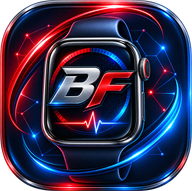
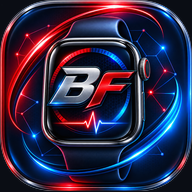
Aggiungi il manifest, e raddrizza le icone della schermata Home
Le icone erano 192×191 e 512×511. Un pixel di meno su un lato basta perché iOS
scarti l'icona e metta al suo posto uno screenshot della pagina: sulla schermata
Home sarebbe comparso un rettangolo di interfaccia sfocata invece del logo.
Ora sono quadrate, con la riga mancante riempita col fondo dell'app.

Il manifest fa partire l'app a schermo intero invece che dentro Safari con la
barra degli indirizzi addosso. La barra di stato è `black` e non
`black-translucent`, che farebbe scorrere il contenuto sotto il notch e
coprirebbe mezza testata.

Il 512 esiste in webp da 66 KB e in png da 417 KB: il webp sta per primo nella
lista e il png resta come ripiego, così nessuno dei due formati è un requisito.

diff --git a/src/app.html b/src/app.html
@@ -5,6 +5,22 @@
 		<meta name="viewport" content="width=device-width, initial-scale=1" />
 		<meta name="text-scale" content="scale" />
 		<meta name="theme-color" content="#0a0d14" />
+
+		<!--
+			Aggiunta alla schermata Home.
+
+			Il manifest da solo basta ad Android e a Safari recente; `apple-*` serve
+			ancora agli iPhone più indietro, che altrimenti aprono una scheda del
+			browser con la barra degli indirizzi addosso. La barra di stato è `black`
+			e non `black-translucent`: la traslucida farebbe scorrere il contenuto
+			sotto il notch, e la testata di ogni pagina finirebbe mezza coperta.
+		-->
+		<link rel="manifest" href="/manifest.webmanifest" />
+		<meta name="mobile-web-app-capable" content="yes" />
+		<meta name="apple-mobile-web-app-capable" content="yes" />
+		<meta name="apple-mobile-web-app-status-bar-style" content="black" />
+		<meta name="apple-mobile-web-app-title" content="BattaFit" />
+
 		<link rel="icon" href="/favicon-32.png" sizes="32x32" type="image/png" />
 		<link rel="apple-touch-icon" href="/battafit-icon-192.png" />
 		%sveltekit.head%
